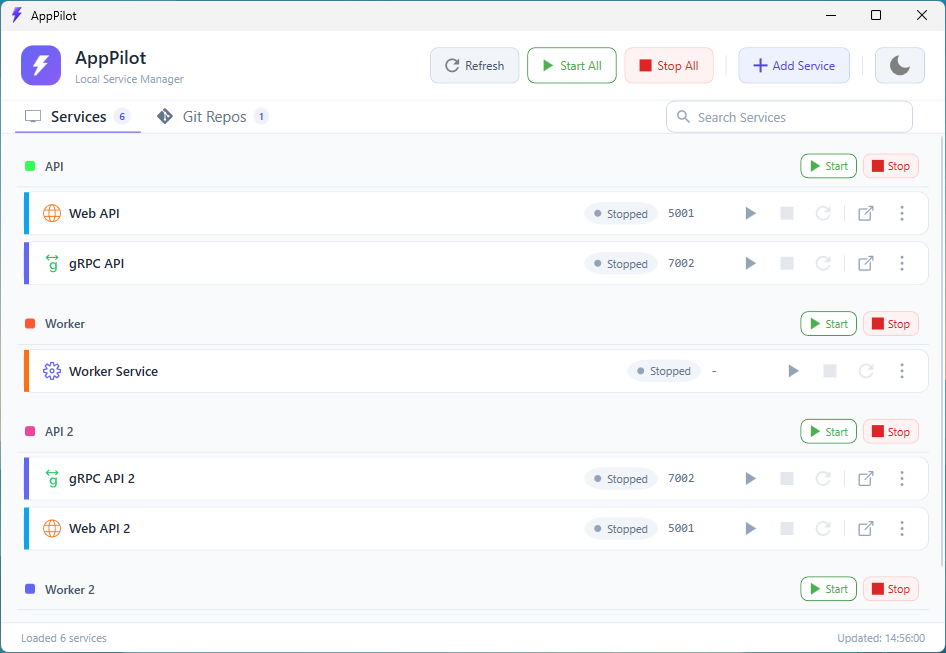
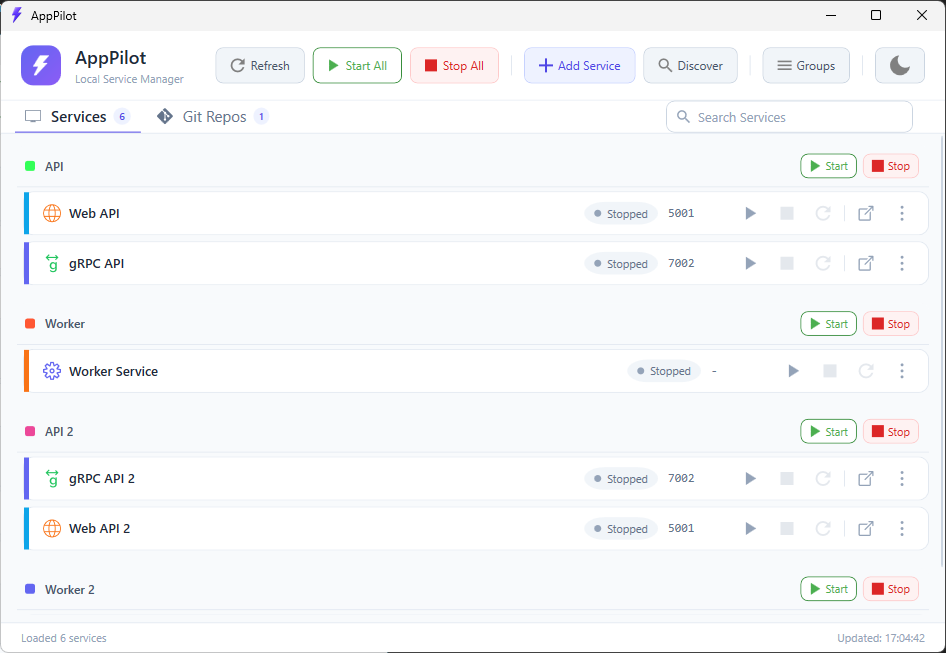
Document Service Discovery & Group Management features
Expanded README with detailed sections on Service Discovery and Group Management, including usage instructions, configuration examples, and group rules. Updated the AppData.json example to illustrate new group structure and service-group linking. Refreshed main window screenshot to reflect UI changes.

diff --git a/README.md b/README.md
@@ -8,6 +8,8 @@ AppPilot is a lightweight Windows desktop application for managing multiple .NET
 
 - **Unified Service Management:** Start, stop, and monitor .NET Worker, gRPC, and Web API projects from a single UI.
 - **Windows Service Support:** Install/uninstall .NET Worker Services as Windows Services.
+- **Service Discovery:** Automatically discover .NET services from a root directory — no manual configuration needed.
+- **Group Management:** Organize services into custom groups with names, colors, and display order.
 - **Individual Service Build:** Build any service directly from the UI using its `.csproj` file.
 - **Dependency Handling:** Define and visualize service dependencies.
 - **Environment Management:** Set environment variables per service.
@@ -31,7 +33,7 @@ Edit `AppData.json` to define your services, groups, and repositories. Example:
 			"Name": "MyWorkerService",
 			"DisplayName": "My Worker Service",
 			"Type": "Worker",
-			"GroupId": "workers_01",
+			"GroupId": "workers",
 			"ExecutablePath": "MyWorker\\bin\\Debug\\net10.0\\MyWorker.exe",
 			"WorkingDirectory": "MyWorker\\bin\\Debug\\net10.0",
 			"CsprojPath": "MyWorker/MyWorker.csproj",
@@ -41,12 +43,21 @@ Edit `AppData.json` to define your services, groups, and repositories. Example:
 			"UseWindowsService": false
 		}
 		// ... more services ...
+	],
+	"Groups": [
+		{
+			"Id": "workers",
+			"Name": "Workers",
+			"DisplayOrder": 1,
+			"ColorCode": "#6366F1"
+		}
 	]
 }
 ```
 
 - `CsprojPath` is required for the build feature.
 - `ExecutablePath` and `WorkingDirectory` can be relative to `BasePath` or absolute.
+- `GroupId` links a service to a group. If empty, the service is ungrouped.
 
 ### 2. Launch AppPilot
 
@@ -59,7 +70,62 @@ Run the AppPilot executable. The UI will display all configured services, their 
 - **Install/Uninstall:** For Worker services, install/uninstall as Windows Services.
 - **Monitor:** View real-time status and health checks.
 
-### 4. Advanced Configuration
+## Service Discovery
+
+AppPilot can automatically discover .NET services from a directory, eliminating the need for manual configuration.
+
+### How It Works
+
+1. Click the **Discover** button in the toolbar.
+2. Select a root directory to scan (or paste the path directly).
+3. AppPilot scans up to 2 folder levels deep for `.csproj` files that have a `Properties/launchSettings.json`.
+4. Discovered services are displayed in a categorized list:
+   - **Workers** — detected by `Microsoft.NET.Sdk.Worker` or `OutputType=Exe` without ASP.NET Core references.
+   - **gRPC** — detected by scanning `Program.cs` for `MapGrpcService` or `AddGrpc`.
+   - **Web APIs** — all other ASP.NET Core projects.
+5. Each discovered service shows its name, path, port, and type badge.
+
+### Selective Import
+
+- Use checkboxes to select which services to import.
+- Use **Select All** / **Deselect All** to quickly manage selections (respects the active filter tab).
+- Click **Import Selected** to add chosen services to your configuration.
+
+### Editing Discovered Services
+
+- Click the **pencil icon** on any discovered service row to open the full service editor.
+- Edit display name, group, type, executable path, arguments, working directory, port, health check URL, environment variables, and dependencies.
+- Changes are reflected immediately in the discovery list.
+
+### Bulk Group Assignment
+
+- Use the **Assign Group to Selected** panel to assign an existing group (or create a new one) to all selected services at once.
+- Create new groups on the fly — if a group with the same name already exists, it will be auto-selected.
+- Use the **Clear** button to remove group assignments from selected services.
+
+## Group Management
+
+Organize your services into logical groups for better visual organization.
+
+### Creating and Managing Groups
+
+1. Click the **Groups** button in the toolbar to open the Group Management dialog.
+2. Use the **Add Group** input at the top to create new groups by name.
+3. Each group row shows:
+   - **Name** — editable inline.
+   - **Color** — click the color swatch to pick from a preset palette, or enter a hex code manually.
+   - **Order** — controls display order in the main UI.
+   - **Services** — count of services assigned to the group.
+4. Click **Save All Changes** to persist groups to `AppData.json`.
+
+### Group Rules
+
+- Group names must be unique. If you try to create a group with an existing name, the existing group is automatically selected.
+- Group IDs are set to match the group name (no GUIDs).
+- New groups are assigned `DisplayOrder = max existing order + 1`.
+- Ungrouped services appear under "Ungrouped" in the main UI.
+
+## Advanced Configuration
 
 - Use `Groups` to organize services.
 - Use `GitRepositories` to link code repositories for quick access.
